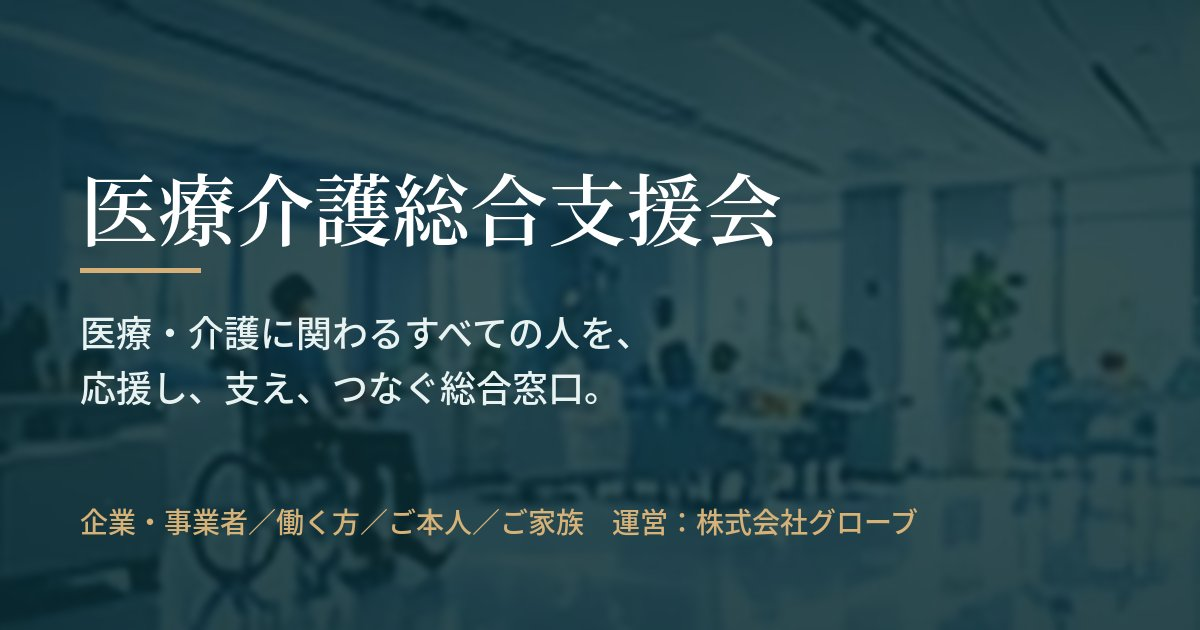
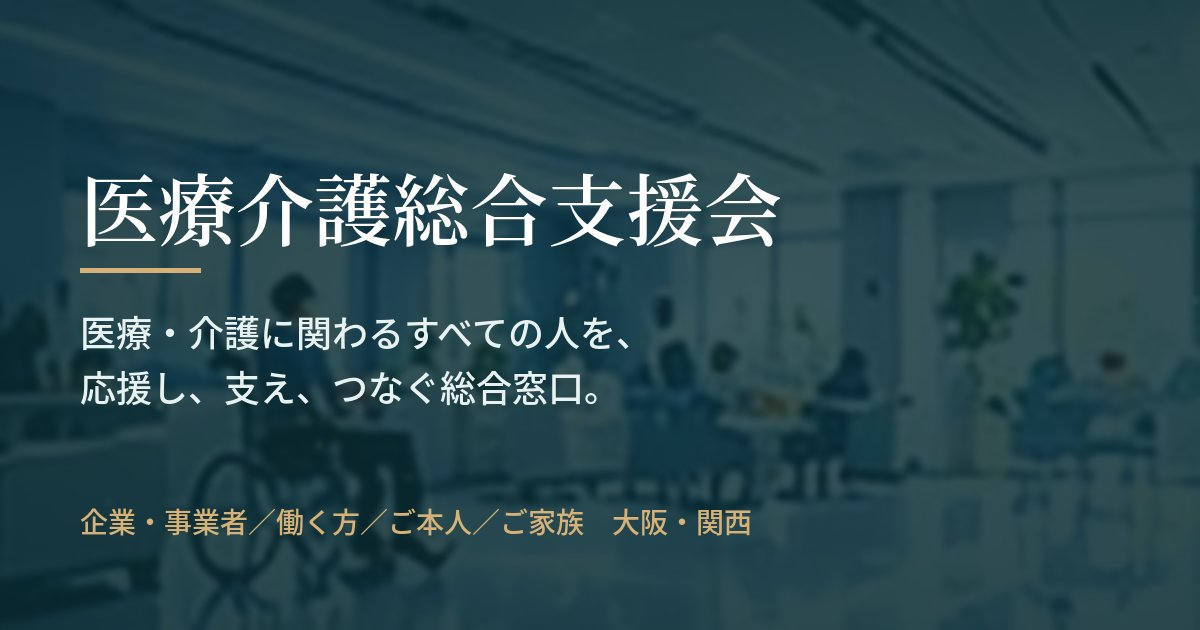
医療介護総合支援会：運営会社名の表示を控えめに
Claude-Session: https://claude.ai/code/session_0193oDonwviRpHSQHrcy9JEj

Changed region(s): [[0.4933, 0.7841, 0.7708, 0.8746]]

diff --git a/medical/index.html b/medical/index.html
@@ -3,16 +3,16 @@
 <head>
 <meta charset="utf-8">
 <meta name="viewport" content="width=device-width,initial-scale=1,viewport-fit=cover">
-<title>医療介護総合支援会｜大阪・関西の医療・介護の総合窓口（運営：株式会社グローブ）</title>
-<meta name="description" content="大阪・関西の医療・介護に関わる企業・事業者、働く方、ご本人、ご家族の総合窓口。相談・支援情報・要望・協力をウェブで受け付け、必要に応じて専門家・提携先へおつなぎします。運営：株式会社グローブ。">
+<title>医療介護総合支援会｜大阪・関西の医療・介護の総合窓口</title>
+<meta name="description" content="大阪・関西の医療・介護に関わる企業・事業者、働く方、ご本人、ご家族の総合窓口。相談・支援情報・要望・協力をウェブで受け付け、必要に応じて専門家・提携先へおつなぎします。">
 <meta name="theme-color" content="#0A2E33">
 <link rel="canonical" href="https://glove-osaka.github.io/glove-site/medical/">
 <link rel="icon" href="assets/favicon.svg" type="image/svg+xml">
 <link rel="apple-touch-icon" href="assets/apple-touch-icon.png">
 <meta property="og:type" content="website">
 <meta property="og:site_name" content="医療介護総合支援会">
-<meta property="og:title" content="医療介護総合支援会｜大阪・関西の医療・介護の総合窓口（運営：株式会社グローブ）">
-<meta property="og:description" content="大阪・関西の医療・介護に関わる企業・事業者、働く方、ご本人、ご家族の総合窓口。相談・支援情報・要望・協力をウェブで受け付け、必要に応じて専門家・提携先へおつなぎします。運営：株式会社グローブ。">
+<meta property="og:title" content="医療介護総合支援会｜大阪・関西の医療・介護の総合窓口">
+<meta property="og:description" content="大阪・関西の医療・介護に関わる企業・事業者、働く方、ご本人、ご家族の総合窓口。相談・支援情報・要望・協力をウェブで受け付け、必要に応じて専門家・提携先へおつなぎします。">
 <meta property="og:url" content="https://glove-osaka.github.io/glove-site/medical/">
 <meta property="og:image" content="https://glove-osaka.github.io/glove-site/medical/assets/ogp.jpg">
 <meta property="og:image:width" content="1200">
@@ -586,7 +586,7 @@ table.info th{width:12em;background:var(--pine-soft);font-weight:700}
 </head>
 <body>
 <a class="skip" href="#main">本文へ移動</a>
-<div class="util"><div class="wrap"><span class="op">運営：<b>株式会社グローブ</b>　ウェブ総合受付：<b>受付中</b>（LINE・電話での相談は準備中）</span>
+<div class="util"><div class="wrap"><span class="op">ウェブ総合受付：<b>受付中</b>（LINE・電話での相談は準備中）</span>
 <div class="util-r"><div class="fs" role="group" aria-label="文字の大きさ"><svg class="ic" viewBox="0 0 32 32" fill="none" stroke="currentColor" stroke-width="1.7" stroke-linecap="round" stroke-linejoin="round" aria-hidden="true"><path d="M4 25 10 8l6 17M6.2 19h7.6"/><path class="ac" d="M18 25l4.5-12L27 25M19.6 21h5.8"/></svg><span>文字の大きさ</span><button type="button" data-fs="" aria-pressed="true">標準</button><button type="button" data-fs="l" aria-pressed="false">大</button><button type="button" data-fs="xl" aria-pressed="false">特大</button></div></div></div></div>
 <header class="hd"><div class="wrap hd-in">
 <a class="brand" href="index.html"><svg class="ic brand-mark" viewBox="0 0 32 32" fill="none" stroke="currentColor" stroke-width="1.7" stroke-linecap="round" stroke-linejoin="round" aria-hidden="true"><path d="M12.5 4h7v8.5H28v7h-8.5V28h-7v-8.5H4v-7h8.5z"/><path class="ac" d="M16 23.5s-4-2.4-4-5.2a2.2 2.2 0 0 1 4-1.3 2.2 2.2 0 0 1 4 1.3c0 2.8-4 5.2-4 5.2z"/></svg><span><b>医療介護総合支援会</b><small>医療・介護に関わるすべての人の総合窓口</small></span></a>
@@ -609,7 +609,7 @@ table.info th{width:12em;background:var(--pine-soft);font-weight:700}
 <div class="hero-media"><video id="heroV" autoplay muted loop playsinline preload="auto" poster="assets/hero-poster.jpg" aria-hidden="true"><source src="assets/hero.webm" type="video/webm"><source src="assets/hero.mp4" type="video/mp4"></video></div>
 <button class="vctl" id="vctl" type="button"><i aria-hidden="true"></i><span>動画を止める</span></button>
 <div class="wrap hero-in"><div class="hero-copy">
-<span class="lbl">株式会社グローブ運営　みんなで使い、みんなで育てる総合支援会</span>
+<span class="lbl">みんなで使い、みんなで育てる総合支援会</span>
 <h1>医療・介護に関わる<br>すべての人を、<br><span class="h-nb">応援し、</span><span class="h-nb">支え、</span><span class="h-nb">つなぐ。</span></h1>
 <p class="lead">困ったときだけではありません。経営をよくしたい、働きやすくしたい、暮らしを便利にしたい、家族を支えたい。皆さまの声から、求められる支援を増やしていきます。</p>
 <div class="btns"><a class="btn btn-g" href="contact/index.html"><svg class="ic" viewBox="0 0 32 32" fill="none" stroke="currentColor" stroke-width="1.7" stroke-linecap="round" stroke-linejoin="round" aria-hidden="true"><path d="M5 6h22v15H14l-6 5v-5H5z"/><path class="ac" d="M10 12h12M10 16h8"/></svg>相談・要望を送る</a><a class="btn btn-w" href="roles/index.html"><svg class="ic" viewBox="0 0 32 32" fill="none" stroke="currentColor" stroke-width="1.7" stroke-linecap="round" stroke-linejoin="round" aria-hidden="true"><circle cx="12" cy="10" r="4"/><circle cx="22" cy="12" r="3.2"/><path d="M4 26c0-4.5 3.6-8 8-8s8 3.5 8 8"/><path class="ac" d="M20 19c4 0 7 2.8 7 6.5"/></svg>自分の立場から選ぶ</a></div>

diff --git a/medical/about/index.html b/medical/about/index.html
@@ -586,7 +586,7 @@ table.info th{width:12em;background:var(--pine-soft);font-weight:700}
 </head>
 <body>
 <a class="skip" href="#main">本文へ移動</a>
-<div class="util"><div class="wrap"><span class="op">運営：<b>株式会社グローブ</b>　ウェブ総合受付：<b>受付中</b>（LINE・電話での相談は準備中）</span>
+<div class="util"><div class="wrap"><span class="op">ウェブ総合受付：<b>受付中</b>（LINE・電話での相談は準備中）</span>
 <div class="util-r"><div class="fs" role="group" aria-label="文字の大きさ"><svg class="ic" viewBox="0 0 32 32" fill="none" stroke="currentColor" stroke-width="1.7" stroke-linecap="round" stroke-linejoin="round" aria-hidden="true"><path d="M4 25 10 8l6 17M6.2 19h7.6"/><path class="ac" d="M18 25l4.5-12L27 25M19.6 21h5.8"/></svg><span>文字の大きさ</span><button type="button" data-fs="" aria-pressed="true">標準</button><button type="button" data-fs="l" aria-pressed="false">大</button><button type="button" data-fs="xl" aria-pressed="false">特大</button></div></div></div></div>
 <header class="hd"><div class="wrap hd-in">
 <a class="brand" href="../index.html"><svg class="ic brand-mark" viewBox="0 0 32 32" fill="none" stroke="currentColor" stroke-width="1.7" stroke-linecap="round" stroke-linejoin="round" aria-hidden="true"><path d="M12.5 4h7v8.5H28v7h-8.5V28h-7v-8.5H4v-7h8.5z"/><path class="ac" d="M16 23.5s-4-2.4-4-5.2a2.2 2.2 0 0 1 4-1.3 2.2 2.2 0 0 1 4 1.3c0 2.8-4 5.2-4 5.2z"/></svg><span><b>医療介護総合支援会</b><small>医療・介護に関わるすべての人の総合窓口</small></span></a>
@@ -623,10 +623,7 @@ table.info th{width:12em;background:var(--pine-soft);font-weight:700}
 <div class="sec-h"><span class="eyebrow">安心の体制</span><h2>3つの立場が連携して、お支えします</h2><p>だれが何を担当するのかを、はじめにはっきりお伝えします。</p></div>
 <div class="tiers"><div class="tier"><svg class="ic" viewBox="0 0 32 32" fill="none" stroke="currentColor" stroke-width="1.7" stroke-linecap="round" stroke-linejoin="round" aria-hidden="true"><path d="M5 6h22v15H14l-6 5v-5H5z"/><path class="ac" d="M10 12h12M10 16h8"/></svg><span class="k">1　支援会の窓口</span><h3>受付と整理</h3><p>相談・要望・協力の申し出を受け付け、目的と優先順位を整理し、対応先を検討します。家財の買取査定は運営会社が直接対応します。</p></div><div class="tier"><svg class="ic" viewBox="0 0 32 32" fill="none" stroke="currentColor" stroke-width="1.7" stroke-linecap="round" stroke-linejoin="round" aria-hidden="true"><path d="M4 18l6-6h5l3 3-3 3h-3"/><path d="M28 18l-6-6h-4"/><path class="ac" d="M10 22l4 4 4-1 6-6"/></svg><span class="k">2　提携事業者</span><h3>サービスの提供</h3><p>引越し・片付け・研修・共同購入などは、内容と地域に合う提携先へおつなぎします。契約はお客様と提携先の間で結ばれます。</p></div><div class="tier"><svg class="ic" viewBox="0 0 32 32" fill="none" stroke="currentColor" stroke-width="1.7" stroke-linecap="round" stroke-linejoin="round" aria-hidden="true"><path d="M16 4l10 4v7c0 6.5-4.3 11-10 13-5.7-2-10-6.5-10-13V8z"/><path class="ac" d="M11.5 16l3 3 6-6.5"/></svg><span class="k">3　有資格者・専門機関</span><h3>専門的な判断</h3><p>診断・治療、法律、税務、労務、許認可の判断や書類の作成は、医療機関や弁護士・税理士・社会保険労務士・行政書士が担当します。</p></div></div>
 </div></section>
-<section class="sec band"><div class="wrap">
-<div class="sec-h"><span class="eyebrow">運営</span><h2>株式会社グローブが運営しています</h2><p>医療介護総合支援会は、株式会社グローブが運営する総合窓口です。同じ運営会社の家じまい相談窓口・企業支援 総合相談窓口とも連携しています。</p></div>
-<p><a class="btn btn-o" href="../company/index.html">運営会社を見る</a></p>
-</div></section></main>
+<section class="sec"><div class="wrap"><p class="fine">運営会社や連携している窓口は、<a href="../company/index.html">運営会社</a>のページでご案内しています。</p></div></section></main>
 <section class="cta-band"><img class="bg" src="../assets/head-5.jpg" alt="" loading="lazy"><div class="wrap">
 <div><h2>相談内容が決まっていなくても、<br>だいじょうぶです。</h2><p>立場と目的を選ぶだけで、受付の内容がまとまります。<br>名前を伏せた相談もできます。</p></div>
 <a class="btn btn-g" href="../contact/index.html"><svg class="ic" viewBox="0 0 32 32" fill="none" stroke="currentColor" stroke-width="1.7" stroke-linecap="round" stroke-linejoin="round" aria-hidden="true"><path d="M5 6h22v15H14l-6 5v-5H5z"/><path class="ac" d="M10 12h12M10 16h8"/></svg>相談・要望を送る</a>

diff --git a/medical/404.html b/medical/404.html
@@ -586,7 +586,7 @@ table.info th{width:12em;background:var(--pine-soft);font-weight:700}
 </head>
 <body>
 <a class="skip" href="#main">本文へ移動</a>
-<div class="util"><div class="wrap"><span class="op">運営：<b>株式会社グローブ</b>　ウェブ総合受付：<b>受付中</b>（LINE・電話での相談は準備中）</span>
+<div class="util"><div class="wrap"><span class="op">ウェブ総合受付：<b>受付中</b>（LINE・電話での相談は準備中）</span>
 <div class="util-r"><div class="fs" role="group" aria-label="文字の大きさ"><svg class="ic" viewBox="0 0 32 32" fill="none" stroke="currentColor" stroke-width="1.7" stroke-linecap="round" stroke-linejoin="round" aria-hidden="true"><path d="M4 25 10 8l6 17M6.2 19h7.6"/><path class="ac" d="M18 25l4.5-12L27 25M19.6 21h5.8"/></svg><span>文字の大きさ</span><button type="button" data-fs="" aria-pressed="true">標準</button><button type="button" data-fs="l" aria-pressed="false">大</button><button type="button" data-fs="xl" aria-pressed="false">特大</button></div></div></div></div>
 <header class="hd"><div class="wrap hd-in">
 <a class="brand" href="https://glove-osaka.github.io/glove-site/medical/index.html"><svg class="ic brand-mark" viewBox="0 0 32 32" fill="none" stroke="currentColor" stroke-width="1.7" stroke-linecap="round" stroke-linejoin="round" aria-hidden="true"><path d="M12.5 4h7v8.5H28v7h-8.5V28h-7v-8.5H4v-7h8.5z"/><path class="ac" d="M16 23.5s-4-2.4-4-5.2a2.2 2.2 0 0 1 4-1.3 2.2 2.2 0 0 1 4 1.3c0 2.8-4 5.2-4 5.2z"/></svg><span><b>医療介護総合支援会</b><small>医療・介護に関わるすべての人の総合窓口</small></span></a>

diff --git a/medical/company/index.html b/medical/company/index.html
@@ -586,7 +586,7 @@ table.info th{width:12em;background:var(--pine-soft);font-weight:700}
 </head>
 <body>
 <a class="skip" href="#main">本文へ移動</a>
-<div class="util"><div class="wrap"><span class="op">運営：<b>株式会社グローブ</b>　ウェブ総合受付：<b>受付中</b>（LINE・電話での相談は準備中）</span>
+<div class="util"><div class="wrap"><span class="op">ウェブ総合受付：<b>受付中</b>（LINE・電話での相談は準備中）</span>
 <div class="util-r"><div class="fs" role="group" aria-label="文字の大きさ"><svg class="ic" viewBox="0 0 32 32" fill="none" stroke="currentColor" stroke-width="1.7" stroke-linecap="round" stroke-linejoin="round" aria-hidden="true"><path d="M4 25 10 8l6 17M6.2 19h7.6"/><path class="ac" d="M18 25l4.5-12L27 25M19.6 21h5.8"/></svg><span>文字の大きさ</span><button type="button" data-fs="" aria-pressed="true">標準</button><button type="button" data-fs="l" aria-pressed="false">大</button><button type="button" data-fs="xl" aria-pressed="false">特大</button></div></div></div></div>
 <header class="hd"><div class="wrap hd-in">
 <a class="brand" href="../index.html"><svg class="ic brand-mark" viewBox="0 0 32 32" fill="none" stroke="currentColor" stroke-width="1.7" stroke-linecap="round" stroke-linejoin="round" aria-hidden="true"><path d="M12.5 4h7v8.5H28v7h-8.5V28h-7v-8.5H4v-7h8.5z"/><path class="ac" d="M16 23.5s-4-2.4-4-5.2a2.2 2.2 0 0 1 4-1.3 2.2 2.2 0 0 1 4 1.3c0 2.8-4 5.2-4 5.2z"/></svg><span><b>医療介護総合支援会</b><small>医療・介護に関わるすべての人の総合窓口</small></span></a>

diff --git a/medical/contact/index.html b/medical/contact/index.html
@@ -586,7 +586,7 @@ table.info th{width:12em;background:var(--pine-soft);font-weight:700}
 </head>
 <body>
 <a class="skip" href="#main">本文へ移動</a>
-<div class="util"><div class="wrap"><span class="op">運営：<b>株式会社グローブ</b>　ウェブ総合受付：<b>受付中</b>（LINE・電話での相談は準備中）</span>
+<div class="util"><div class="wrap"><span class="op">ウェブ総合受付：<b>受付中</b>（LINE・電話での相談は準備中）</span>
 <div class="util-r"><div class="fs" role="group" aria-label="文字の大きさ"><svg class="ic" viewBox="0 0 32 32" fill="none" stroke="currentColor" stroke-width="1.7" stroke-linecap="round" stroke-linejoin="round" aria-hidden="true"><path d="M4 25 10 8l6 17M6.2 19h7.6"/><path class="ac" d="M18 25l4.5-12L27 25M19.6 21h5.8"/></svg><span>文字の大きさ</span><button type="button" data-fs="" aria-pressed="true">標準</button><button type="button" data-fs="l" aria-pressed="false">大</button><button type="button" data-fs="xl" aria-pressed="false">特大</button></div></div></div></div>
 <header class="hd"><div class="wrap hd-in">
 <a class="brand" href="../index.html"><svg class="ic brand-mark" viewBox="0 0 32 32" fill="none" stroke="currentColor" stroke-width="1.7" stroke-linecap="round" stroke-linejoin="round" aria-hidden="true"><path d="M12.5 4h7v8.5H28v7h-8.5V28h-7v-8.5H4v-7h8.5z"/><path class="ac" d="M16 23.5s-4-2.4-4-5.2a2.2 2.2 0 0 1 4-1.3 2.2 2.2 0 0 1 4 1.3c0 2.8-4 5.2-4 5.2z"/></svg><span><b>医療介護総合支援会</b><small>医療・介護に関わるすべての人の総合窓口</small></span></a>

diff --git a/medical/faq/index.html b/medical/faq/index.html
@@ -586,7 +586,7 @@ table.info th{width:12em;background:var(--pine-soft);font-weight:700}
 </head>
 <body>
 <a class="skip" href="#main">本文へ移動</a>
-<div class="util"><div class="wrap"><span class="op">運営：<b>株式会社グローブ</b>　ウェブ総合受付：<b>受付中</b>（LINE・電話での相談は準備中）</span>
+<div class="util"><div class="wrap"><span class="op">ウェブ総合受付：<b>受付中</b>（LINE・電話での相談は準備中）</span>
 <div class="util-r"><div class="fs" role="group" aria-label="文字の大きさ"><svg class="ic" viewBox="0 0 32 32" fill="none" stroke="currentColor" stroke-width="1.7" stroke-linecap="round" stroke-linejoin="round" aria-hidden="true"><path d="M4 25 10 8l6 17M6.2 19h7.6"/><path class="ac" d="M18 25l4.5-12L27 25M19.6 21h5.8"/></svg><span>文字の大きさ</span><button type="button" data-fs="" aria-pressed="true">標準</button><button type="button" data-fs="l" aria-pressed="false">大</button><button type="button" data-fs="xl" aria-pressed="false">特大</button></div></div></div></div>
 <header class="hd"><div class="wrap hd-in">
 <a class="brand" href="../index.html"><svg class="ic brand-mark" viewBox="0 0 32 32" fill="none" stroke="currentColor" stroke-width="1.7" stroke-linecap="round" stroke-linejoin="round" aria-hidden="true"><path d="M12.5 4h7v8.5H28v7h-8.5V28h-7v-8.5H4v-7h8.5z"/><path class="ac" d="M16 23.5s-4-2.4-4-5.2a2.2 2.2 0 0 1 4-1.3 2.2 2.2 0 0 1 4 1.3c0 2.8-4 5.2-4 5.2z"/></svg><span><b>医療介護総合支援会</b><small>医療・介護に関わるすべての人の総合窓口</small></span></a>

diff --git a/medical/flow/index.html b/medical/flow/index.html
@@ -586,7 +586,7 @@ table.info th{width:12em;background:var(--pine-soft);font-weight:700}
 </head>
 <body>
 <a class="skip" href="#main">本文へ移動</a>
-<div class="util"><div class="wrap"><span class="op">運営：<b>株式会社グローブ</b>　ウェブ総合受付：<b>受付中</b>（LINE・電話での相談は準備中）</span>
+<div class="util"><div class="wrap"><span class="op">ウェブ総合受付：<b>受付中</b>（LINE・電話での相談は準備中）</span>
 <div class="util-r"><div class="fs" role="group" aria-label="文字の大きさ"><svg class="ic" viewBox="0 0 32 32" fill="none" stroke="currentColor" stroke-width="1.7" stroke-linecap="round" stroke-linejoin="round" aria-hidden="true"><path d="M4 25 10 8l6 17M6.2 19h7.6"/><path class="ac" d="M18 25l4.5-12L27 25M19.6 21h5.8"/></svg><span>文字の大きさ</span><button type="button" data-fs="" aria-pressed="true">標準</button><button type="button" data-fs="l" aria-pressed="false">大</button><button type="button" data-fs="xl" aria-pressed="false">特大</button></div></div></div></div>
 <header class="hd"><div class="wrap hd-in">
 <a class="brand" href="../index.html"><svg class="ic brand-mark" viewBox="0 0 32 32" fill="none" stroke="currentColor" stroke-width="1.7" stroke-linecap="round" stroke-linejoin="round" aria-hidden="true"><path d="M12.5 4h7v8.5H28v7h-8.5V28h-7v-8.5H4v-7h8.5z"/><path class="ac" d="M16 23.5s-4-2.4-4-5.2a2.2 2.2 0 0 1 4-1.3 2.2 2.2 0 0 1 4 1.3c0 2.8-4 5.2-4 5.2z"/></svg><span><b>医療介護総合支援会</b><small>医療・介護に関わるすべての人の総合窓口</small></span></a>

diff --git a/medical/kyoryoku/index.html b/medical/kyoryoku/index.html
@@ -586,7 +586,7 @@ table.info th{width:12em;background:var(--pine-soft);font-weight:700}
 </head>
 <body>
 <a class="skip" href="#main">本文へ移動</a>
-<div class="util"><div class="wrap"><span class="op">運営：<b>株式会社グローブ</b>　ウェブ総合受付：<b>受付中</b>（LINE・電話での相談は準備中）</span>
+<div class="util"><div class="wrap"><span class="op">ウェブ総合受付：<b>受付中</b>（LINE・電話での相談は準備中）</span>
 <div class="util-r"><div class="fs" role="group" aria-label="文字の大きさ"><svg class="ic" viewBox="0 0 32 32" fill="none" stroke="currentColor" stroke-width="1.7" stroke-linecap="round" stroke-linejoin="round" aria-hidden="true"><path d="M4 25 10 8l6 17M6.2 19h7.6"/><path class="ac" d="M18 25l4.5-12L27 25M19.6 21h5.8"/></svg><span>文字の大きさ</span><button type="button" data-fs="" aria-pressed="true">標準</button><button type="button" data-fs="l" aria-pressed="false">大</button><button type="button" data-fs="xl" aria-pressed="false">特大</button></div></div></div></div>
 <header class="hd"><div class="wrap hd-in">
 <a class="brand" href="../index.html"><svg class="ic brand-mark" viewBox="0 0 32 32" fill="none" stroke="currentColor" stroke-width="1.7" stroke-linecap="round" stroke-linejoin="round" aria-hidden="true"><path d="M12.5 4h7v8.5H28v7h-8.5V28h-7v-8.5H4v-7h8.5z"/><path class="ac" d="M16 23.5s-4-2.4-4-5.2a2.2 2.2 0 0 1 4-1.3 2.2 2.2 0 0 1 4 1.3c0 2.8-4 5.2-4 5.2z"/></svg><span><b>医療介護総合支援会</b><small>医療・介護に関わるすべての人の総合窓口</small></span></a>

diff --git a/medical/privacy/index.html b/medical/privacy/index.html
@@ -586,7 +586,7 @@ table.info th{width:12em;background:var(--pine-soft);font-weight:700}
 </head>
 <body>
 <a class="skip" href="#main">本文へ移動</a>
-<div class="util"><div class="wrap"><span class="op">運営：<b>株式会社グローブ</b>　ウェブ総合受付：<b>受付中</b>（LINE・電話での相談は準備中）</span>
+<div class="util"><div class="wrap"><span class="op">ウェブ総合受付：<b>受付中</b>（LINE・電話での相談は準備中）</span>
 <div class="util-r"><div class="fs" role="group" aria-label="文字の大きさ"><svg class="ic" viewBox="0 0 32 32" fill="none" stroke="currentColor" stroke-width="1.7" stroke-linecap="round" stroke-linejoin="round" aria-hidden="true"><path d="M4 25 10 8l6 17M6.2 19h7.6"/><path class="ac" d="M18 25l4.5-12L27 25M19.6 21h5.8"/></svg><span>文字の大きさ</span><button type="button" data-fs="" aria-pressed="true">標準</button><button type="button" data-fs="l" aria-pressed="false">大</button><button type="button" data-fs="xl" aria-pressed="false">特大</button></div></div></div></div>
 <header class="hd"><div class="wrap hd-in">
 <a class="brand" href="../index.html"><svg class="ic brand-mark" viewBox="0 0 32 32" fill="none" stroke="currentColor" stroke-width="1.7" stroke-linecap="round" stroke-linejoin="round" aria-hidden="true"><path d="M12.5 4h7v8.5H28v7h-8.5V28h-7v-8.5H4v-7h8.5z"/><path class="ac" d="M16 23.5s-4-2.4-4-5.2a2.2 2.2 0 0 1 4-1.3 2.2 2.2 0 0 1 4 1.3c0 2.8-4 5.2-4 5.2z"/></svg><span><b>医療介護総合支援会</b><small>医療・介護に関わるすべての人の総合窓口</small></span></a>

diff --git a/medical/roles/hataraku.html b/medical/roles/hataraku.html
@@ -586,7 +586,7 @@ table.info th{width:12em;background:var(--pine-soft);font-weight:700}
 </head>
 <body>
 <a class="skip" href="#main">本文へ移動</a>
-<div class="util"><div class="wrap"><span class="op">運営：<b>株式会社グローブ</b>　ウェブ総合受付：<b>受付中</b>（LINE・電話での相談は準備中）</span>
+<div class="util"><div class="wrap"><span class="op">ウェブ総合受付：<b>受付中</b>（LINE・電話での相談は準備中）</span>
 <div class="util-r"><div class="fs" role="group" aria-label="文字の大きさ"><svg class="ic" viewBox="0 0 32 32" fill="none" stroke="currentColor" stroke-width="1.7" stroke-linecap="round" stroke-linejoin="round" aria-hidden="true"><path d="M4 25 10 8l6 17M6.2 19h7.6"/><path class="ac" d="M18 25l4.5-12L27 25M19.6 21h5.8"/></svg><span>文字の大きさ</span><button type="button" data-fs="" aria-pressed="true">標準</button><button type="button" data-fs="l" aria-pressed="false">大</button><button type="button" data-fs="xl" aria-pressed="false">特大</button></div></div></div></div>
 <header class="hd"><div class="wrap hd-in">
 <a class="brand" href="../index.html"><svg class="ic brand-mark" viewBox="0 0 32 32" fill="none" stroke="currentColor" stroke-width="1.7" stroke-linecap="round" stroke-linejoin="round" aria-hidden="true"><path d="M12.5 4h7v8.5H28v7h-8.5V28h-7v-8.5H4v-7h8.5z"/><path class="ac" d="M16 23.5s-4-2.4-4-5.2a2.2 2.2 0 0 1 4-1.3 2.2 2.2 0 0 1 4 1.3c0 2.8-4 5.2-4 5.2z"/></svg><span><b>医療介護総合支援会</b><small>医療・介護に関わるすべての人の総合窓口</small></span></a>

diff --git a/medical/roles/honnin.html b/medical/roles/honnin.html
@@ -586,7 +586,7 @@ table.info th{width:12em;background:var(--pine-soft);font-weight:700}
 </head>
 <body>
 <a class="skip" href="#main">本文へ移動</a>
-<div class="util"><div class="wrap"><span class="op">運営：<b>株式会社グローブ</b>　ウェブ総合受付：<b>受付中</b>（LINE・電話での相談は準備中）</span>
+<div class="util"><div class="wrap"><span class="op">ウェブ総合受付：<b>受付中</b>（LINE・電話での相談は準備中）</span>
 <div class="util-r"><div class="fs" role="group" aria-label="文字の大きさ"><svg class="ic" viewBox="0 0 32 32" fill="none" stroke="currentColor" stroke-width="1.7" stroke-linecap="round" stroke-linejoin="round" aria-hidden="true"><path d="M4 25 10 8l6 17M6.2 19h7.6"/><path class="ac" d="M18 25l4.5-12L27 25M19.6 21h5.8"/></svg><span>文字の大きさ</span><button type="button" data-fs="" aria-pressed="true">標準</button><button type="button" data-fs="l" aria-pressed="false">大</button><button type="button" data-fs="xl" aria-pressed="false">特大</button></div></div></div></div>
 <header class="hd"><div class="wrap hd-in">
 <a class="brand" href="../index.html"><svg class="ic brand-mark" viewBox="0 0 32 32" fill="none" stroke="currentColor" stroke-width="1.7" stroke-linecap="round" stroke-linejoin="round" aria-hidden="true"><path d="M12.5 4h7v8.5H28v7h-8.5V28h-7v-8.5H4v-7h8.5z"/><path class="ac" d="M16 23.5s-4-2.4-4-5.2a2.2 2.2 0 0 1 4-1.3 2.2 2.2 0 0 1 4 1.3c0 2.8-4 5.2-4 5.2z"/></svg><span><b>医療介護総合支援会</b><small>医療・介護に関わるすべての人の総合窓口</small></span></a>

diff --git a/medical/roles/index.html b/medical/roles/index.html
@@ -586,7 +586,7 @@ table.info th{width:12em;background:var(--pine-soft);font-weight:700}
 </head>
 <body>
 <a class="skip" href="#main">本文へ移動</a>
-<div class="util"><div class="wrap"><span class="op">運営：<b>株式会社グローブ</b>　ウェブ総合受付：<b>受付中</b>（LINE・電話での相談は準備中）</span>
+<div class="util"><div class="wrap"><span class="op">ウェブ総合受付：<b>受付中</b>（LINE・電話での相談は準備中）</span>
 <div class="util-r"><div class="fs" role="group" aria-label="文字の大きさ"><svg class="ic" viewBox="0 0 32 32" fill="none" stroke="currentColor" stroke-width="1.7" stroke-linecap="round" stroke-linejoin="round" aria-hidden="true"><path d="M4 25 10 8l6 17M6.2 19h7.6"/><path class="ac" d="M18 25l4.5-12L27 25M19.6 21h5.8"/></svg><span>文字の大きさ</span><button type="button" data-fs="" aria-pressed="true">標準</button><button type="button" data-fs="l" aria-pressed="false">大</button><button type="button" data-fs="xl" aria-pressed="false">特大</button></div></div></div></div>
 <header class="hd"><div class="wrap hd-in">
 <a class="brand" href="../index.html"><svg class="ic brand-mark" viewBox="0 0 32 32" fill="none" stroke="currentColor" stroke-width="1.7" stroke-linecap="round" stroke-linejoin="round" aria-hidden="true"><path d="M12.5 4h7v8.5H28v7h-8.5V28h-7v-8.5H4v-7h8.5z"/><path class="ac" d="M16 23.5s-4-2.4-4-5.2a2.2 2.2 0 0 1 4-1.3 2.2 2.2 0 0 1 4 1.3c0 2.8-4 5.2-4 5.2z"/></svg><span><b>医療介護総合支援会</b><small>医療・介護に関わるすべての人の総合窓口</small></span></a>
